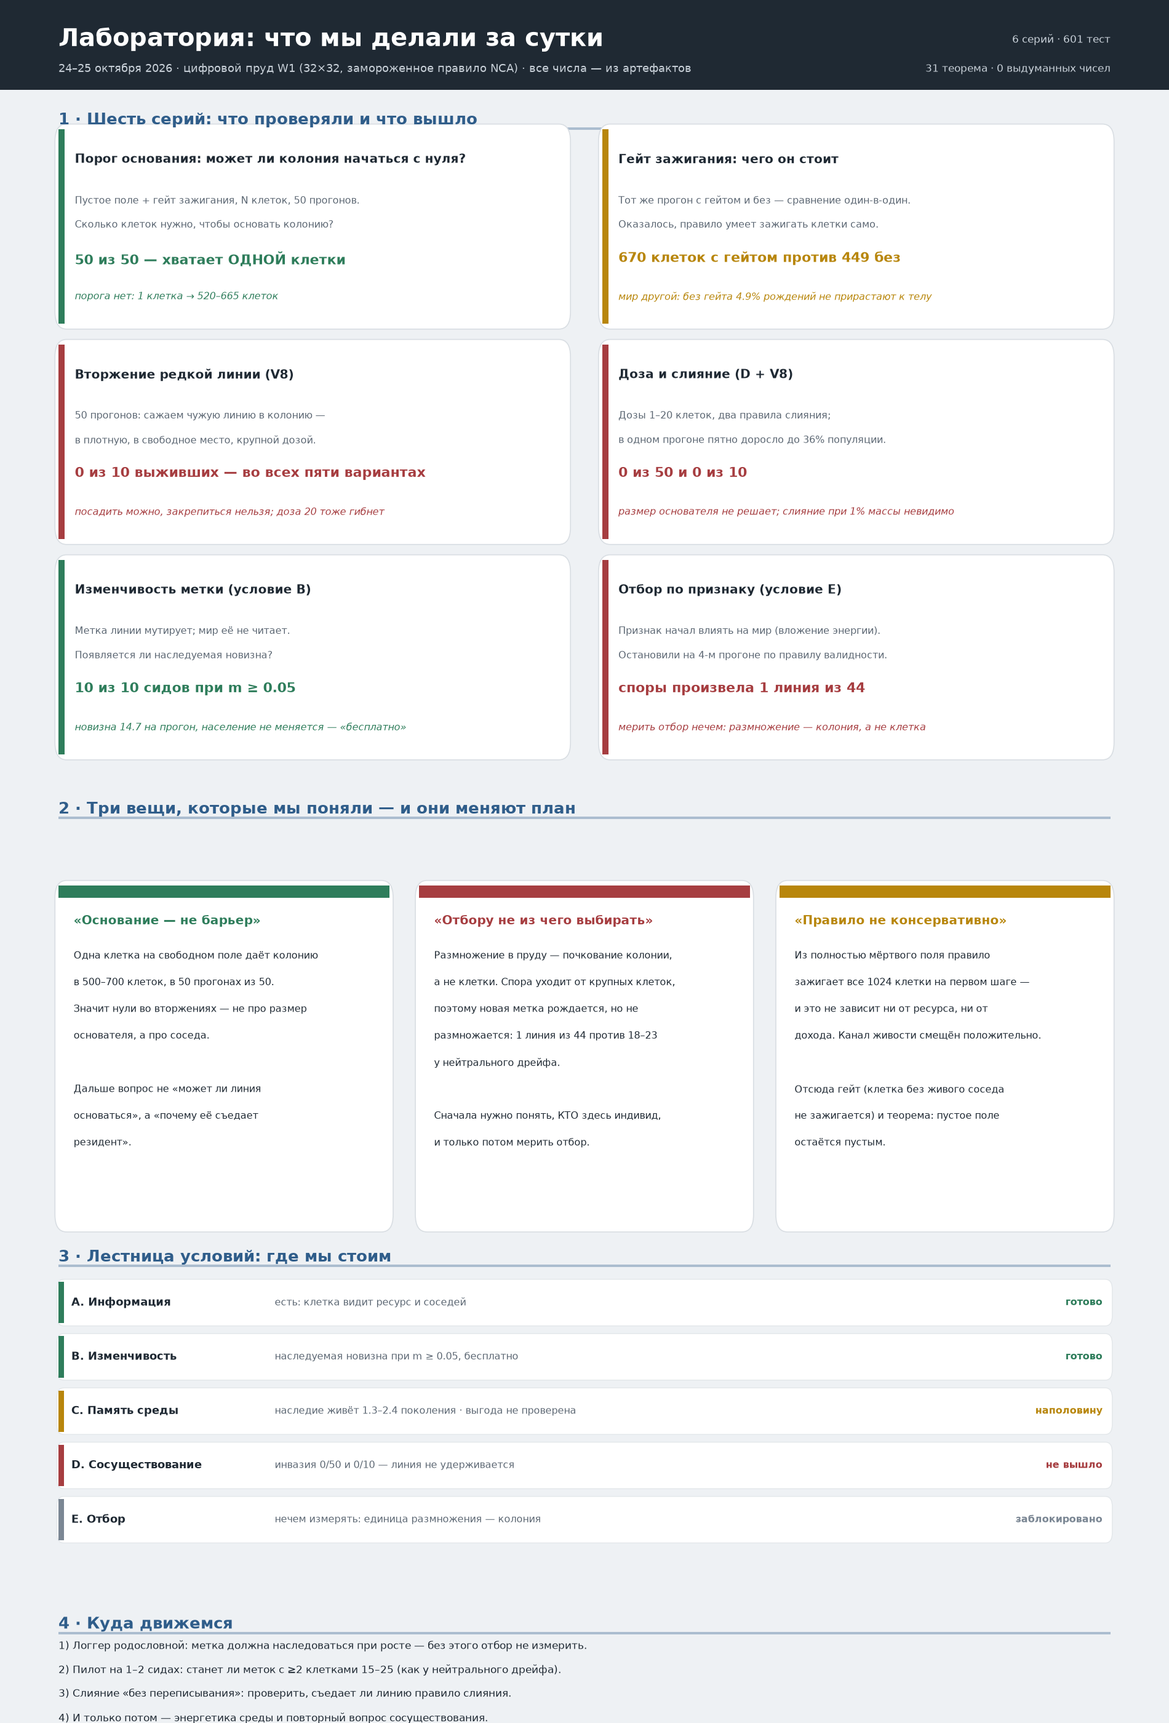
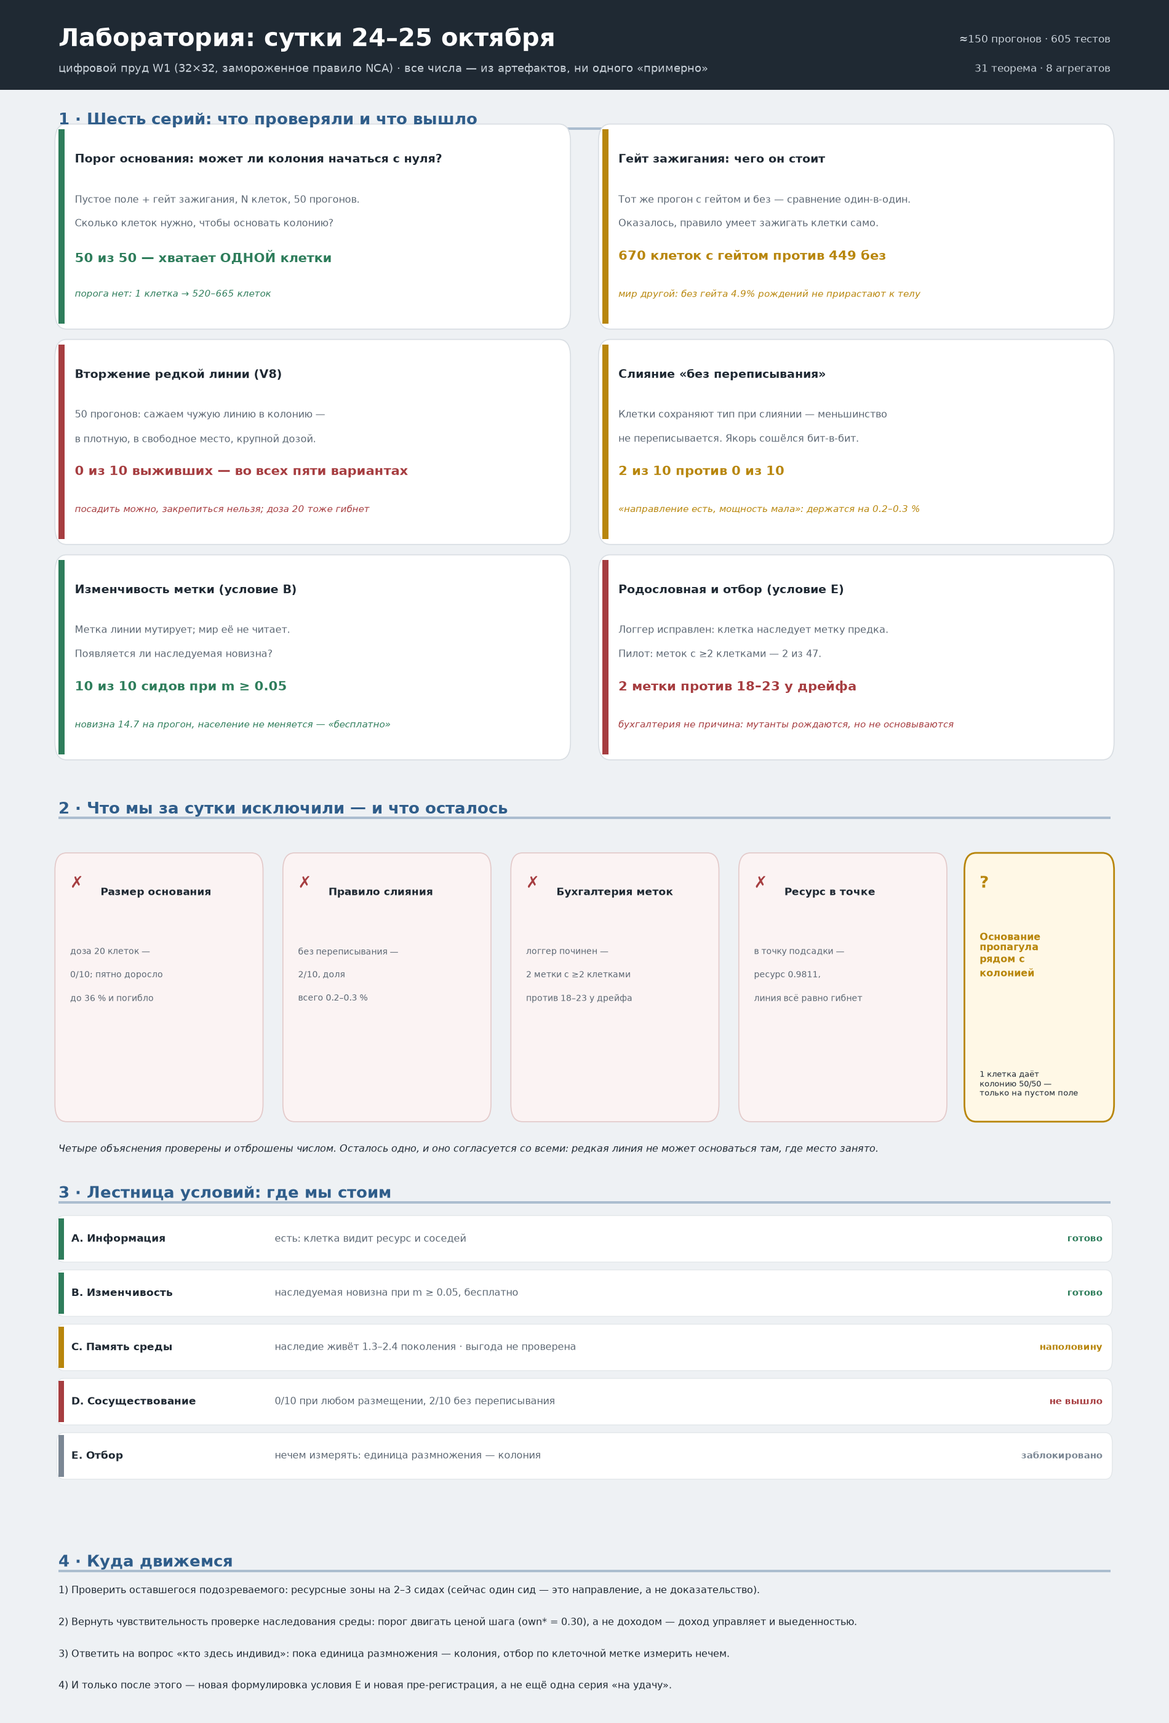
reports/figures: постер v2 — исключённые механизмы, merge=keep, родословная, лестница

diff --git a/scripts/make_day_poster.py b/scripts/make_day_poster.py
@@ -1,7 +1,6 @@
-"""Постер «сутки лаборатории» — визуализация хода исследования для владельца.
+"""Постер «сутки лаборатории» для владельца (версия 2, после ночных серий).
 
-Все числа взяты из артефактов линии E09_pond и рукописи (§10ab–§10ag, §4h, §5).
-Верстка: сетка с фиксированными координатами, без наложений.
+Все числа — из артефактов линии E09_pond и разделов 10ab–10al мира/рукописи.
 """
 from __future__ import annotations
 
@@ -24,20 +23,17 @@ BLUE = "#2f5d8a"
 FIG_W, FIG_H = 19.0, 28.0
 
 
-def section(fig, y_header, text):
-    fig.text(0.05, y_header, text, fontsize=19, weight="bold", color=BLUE,
-             va="top", ha="left")
+def section(fig, y, text):
+    fig.text(0.05, y, text, fontsize=19, weight="bold", color=BLUE, va="top", ha="left")
     fig.patches.append(
-        Rectangle((0.05, y_header - 0.0105), 0.90, 0.0014,
-                  transform=fig.transFigure, facecolor=BLUE, edgecolor="none",
-                  alpha=0.35, zorder=1)
+        Rectangle((0.05, y - 0.0105), 0.90, 0.0014, transform=fig.transFigure,
+                  facecolor=BLUE, edgecolor="none", alpha=0.35, zorder=1)
     )
 
 
 def card(fig, x, y, w, h, *, title, lines, big, verdict, colour):
     fig.patches.append(
-        FancyBboxPatch((x, y), w, h,
-                       boxstyle="round,pad=0.003,rounding_size=0.010",
+        FancyBboxPatch((x, y), w, h, boxstyle="round,pad=0.003,rounding_size=0.010",
                        transform=fig.transFigure, facecolor=WHITE,
                        edgecolor="#d9dee3", linewidth=1.2, zorder=2)
     )
@@ -46,37 +42,32 @@ def card(fig, x, y, w, h, *, title, lines, big, verdict, colour):
                   facecolor=colour, edgecolor="none", zorder=3)
     )
     ty = y + h - 0.014
-    fig.text(x + 0.014, ty, title, fontsize=14.5, weight="bold", color=INK,
-             va="top", ha="left")
-    ty -= 0.0245
+    fig.text(x + 0.014, ty, title, fontsize=14.0, weight="bold", color=INK, va="top", ha="left")
+    ty -= 0.024
     for ln in lines:
-        fig.text(x + 0.014, ty, ln, fontsize=11.6, color=MUTED, va="top", ha="left")
-        ty -= 0.0142
+        fig.text(x + 0.014, ty, ln, fontsize=11.4, color=MUTED, va="top", ha="left")
+        ty -= 0.014
     ty -= 0.004
-    fig.text(x + 0.014, ty, big, fontsize=15.5, weight="bold", color=colour,
-             va="top", ha="left")
-    ty -= 0.0235
-    fig.text(x + 0.014, ty, verdict, fontsize=11.2, color=colour, va="top",
-             ha="left", style="italic")
+    fig.text(x + 0.014, ty, big, fontsize=15.0, weight="bold", color=colour, va="top", ha="left")
+    ty -= 0.023
+    fig.text(x + 0.014, ty, verdict, fontsize=11.0, color=colour, va="top", ha="left", style="italic")
 
 
 fig = plt.figure(figsize=(FIG_W, FIG_H), dpi=100)
 fig.patch.set_facecolor(LIGHT)
 
 # ---------------------------------------------------------------- шапка
-fig.patches.append(
-    Rectangle((0, 0.948), 1, 0.052, transform=fig.transFigure,
-              facecolor=INK, edgecolor="none", zorder=1)
-)
-fig.text(0.05, 0.977, "Лаборатория: что мы делали за сутки", fontsize=29,
-         weight="bold", color=WHITE, va="center", ha="left")
+fig.patches.append(Rectangle((0, 0.948), 1, 0.052, transform=fig.transFigure,
+                             facecolor=INK, edgecolor="none", zorder=1))
+fig.text(0.05, 0.977, "Лаборатория: сутки 24–25 октября", fontsize=29, weight="bold",
+         color=WHITE, va="center", ha="left")
 fig.text(0.05, 0.960,
-         "24–25 октября 2026 · цифровой пруд W1 (32×32, замороженное правило NCA) · все числа — из артефактов",
+         "цифровой пруд W1 (32×32, замороженное правило NCA) · все числа — из артефактов, ни одного «примерно»",
          fontsize=13, color="#c9d1d9", va="center", ha="left")
-fig.text(0.95, 0.977, "6 серий · 601 тест", fontsize=12.5, color="#c9d1d9",
+fig.text(0.95, 0.977, "≈150 прогонов · 605 тестов", fontsize=12.5, color="#c9d1d9",
          va="center", ha="right")
-fig.text(0.95, 0.960, "31 теорема · 0 выдуманных чисел", fontsize=12.5,
-         color="#c9d1d9", va="center", ha="right")
+fig.text(0.95, 0.960, "31 теорема · 8 агрегатов", fontsize=12.5, color="#c9d1d9",
+         va="center", ha="right")
 
 # ---------------------------------------------------------------- 1. серии
 section(fig, 0.935, "1 · Шесть серий: что проверяли и что вышло")
@@ -110,12 +101,12 @@ card(fig, col1, rows[1], cw, ch,
      colour=RED)
 
 card(fig, col2, rows[1], cw, ch,
-     title="Доза и слияние (D + V8)",
-     lines=["Дозы 1–20 клеток, два правила слияния;",
-            "в одном прогоне пятно доросло до 36% популяции."],
-     big="0 из 50 и 0 из 10",
-     verdict="размер основателя не решает; слияние при 1% массы невидимо",
-     colour=RED)
+     title="Слияние «без переписывания»",
+     lines=["Клетки сохраняют тип при слиянии — меньшинство",
+            "не переписывается. Якорь сошёлся бит-в-бит."],
+     big="2 из 10 против 0 из 10",
+     verdict="«направление есть, мощность мала»: держатся на 0.2–0.3 %",
+     colour=AMBER)
 
 card(fig, col1, rows[2], cw, ch,
      title="Изменчивость метки (условие B)",
@@ -126,111 +117,97 @@ card(fig, col1, rows[2], cw, ch,
      colour=GREEN)
 
 card(fig, col2, rows[2], cw, ch,
-     title="Отбор по признаку (условие E)",
-     lines=["Признак начал влиять на мир (вложение энергии).",
-            "Остановили на 4-м прогоне по правилу валидности."],
-     big="споры произвела 1 линия из 44",
-     verdict="мерить отбор нечем: размножение — колония, а не клетка",
+     title="Родословная и отбор (условие E)",
+     lines=["Логгер исправлен: клетка наследует метку предка.",
+            "Пилот: меток с ≥2 клетками — 2 из 47."],
+     big="2 метки против 18–23 у дрейфа",
+     verdict="бухгалтерия не причина: мутанты рождаются, но не основываются",
      colour=RED)
 
-# ---------------------------------------------------------------- 2. выводы
-section(fig, 0.535, "2 · Три вещи, которые мы поняли — и они меняют план")
+# ---------------------------------------------------------------- 2. исключения
+section(fig, 0.535, "2 · Что мы за сутки исключили — и что осталось")
 
-box_w, box_h = 0.2833, 0.198
-box_y = 0.288
-boxes = [
-    ("«Основание — не барьер»",
-     ["Одна клетка на свободном поле даёт колонию",
-      "в 500–700 клеток, в 50 прогонах из 50.",
-      "Значит нули во вторжениях — не про размер",
-      "основателя, а про соседа.",
-      "",
-      "Дальше вопрос не «может ли линия",
-      "основаться», а «почему её съедает",
-      "резидент»."], GREEN),
-    ("«Отбору не из чего выбирать»",
-     ["Размножение в пруду — почкование колонии,",
-      "а не клетки. Спора уходит от крупных клеток,",
-      "поэтому новая метка рождается, но не",
-      "размножается: 1 линия из 44 против 18–23",
-      "у нейтрального дрейфа.",
-      "",
-      "Сначала нужно понять, КТО здесь индивид,",
-      "и только потом мерить отбор."], RED),
-    ("«Правило не консервативно»",
-     ["Из полностью мёртвого поля правило",
-      "зажигает все 1024 клетки на первом шаге —",
-      "и это не зависит ни от ресурса, ни от",
-      "дохода. Канал живости смещён положительно.",
-      "",
-      "Отсюда гейт (клетка без живого соседа",
-      "не зажигается) и теорема: пустое поле",
-      "остаётся пустым."], AMBER),
+ew, eh = 0.172, 0.150
+ey = 0.352
+items = [
+    ("Размер основания", ["доза 20 клеток —", "0/10; пятно доросло", "до 36 % и погибло"], RED),
+    ("Правило слияния", ["без переписывания —", "2/10, доля", "всего 0.2–0.3 %"], RED),
+    ("Бухгалтерия меток", ["логгер починен —", "2 метки с ≥2 клетками", "против 18–23 у дрейфа"], RED),
+    ("Ресурс в точке", ["в точку подсадки —", "ресурс 0.9811,", "линия всё равно гибнет"], RED),
 ]
-for x, (head, body, colour) in zip([0.05, 0.3583, 0.6667], boxes):
+exs = [0.05, 0.245, 0.440, 0.635]
+for x, (head, body, colour) in zip(exs, items):
     fig.patches.append(
-        FancyBboxPatch((x, box_y), box_w, box_h,
-                       boxstyle="round,pad=0.003,rounding_size=0.010",
-                       transform=fig.transFigure, facecolor=WHITE,
-                       edgecolor="#d9dee3", linewidth=1.2, zorder=2)
+        FancyBboxPatch((x, ey), ew, eh, boxstyle="round,pad=0.003,rounding_size=0.010",
+                       transform=fig.transFigure, facecolor="#fbf3f3",
+                       edgecolor="#e3c9c9", linewidth=1.2, zorder=2)
     )
-    fig.patches.append(
-        Rectangle((x, box_y + box_h - 0.007), box_w, 0.007,
-                  transform=fig.transFigure, facecolor=colour,
-                  edgecolor="none", zorder=3)
-    )
-    fig.text(x + 0.013, box_y + box_h - 0.017, head, fontsize=14.5,
-             weight="bold", color=colour, va="top", ha="left")
-    ty = box_y + box_h - 0.038
+    fig.text(x + 0.010, ey + eh - 0.010, "✗", fontsize=19, color=colour, va="top",
+             ha="left", weight="bold")
+    fig.text(x + 0.036, ey + eh - 0.017, head, fontsize=12.0, weight="bold",
+             color=INK, va="top", ha="left")
+    ty = ey + eh - 0.052
     for ln in body:
-        fig.text(x + 0.013, ty, ln, fontsize=11.3, color=INK, va="top", ha="left")
-        ty -= 0.0155
+        fig.text(x + 0.010, ty, ln, fontsize=9.8, color=MUTED, va="top", ha="left")
+        ty -= 0.0135
+
+sx, sw = 0.828, 0.122
+fig.patches.append(
+    FancyBboxPatch((sx, ey), sw, eh, boxstyle="round,pad=0.003,rounding_size=0.010",
+                   transform=fig.transFigure, facecolor="#fff8e6",
+                   edgecolor=AMBER, linewidth=2.0, zorder=2)
+)
+fig.text(sx + 0.010, ey + eh - 0.010, "?", fontsize=19, color=AMBER, va="top",
+         ha="left", weight="bold")
+fig.text(sx + 0.010, ey + eh - 0.042, "Основание\nпропагула\nрядом с\nколонией",
+         fontsize=11.2, weight="bold", color=AMBER, va="top", ha="left", linespacing=1.25)
+fig.text(sx + 0.010, ey + 0.010, "1 клетка даёт\nколонию 50/50 —\nтолько на пустом поле",
+         fontsize=9.0, color=INK, va="bottom", ha="left", linespacing=1.3)
+
+fig.text(0.05, ey - 0.016,
+         "Четыре объяснения проверены и отброшены числом. Осталось одно, и оно согласуется со всеми: "
+         "редкая линия не может основаться там, где место занято.",
+         fontsize=11.6, color=INK, va="top", ha="left", style="italic")
 
 # ---------------------------------------------------------------- 3. лестница
-section(fig, 0.275, "3 · Лестница условий: где мы стоим")
+section(fig, 0.312, "3 · Лестница условий: где мы стоим")
 
 ladder = [
     ("A. Информация", "есть: клетка видит ресурс и соседей", GREEN, "готово"),
     ("B. Изменчивость", "наследуемая новизна при m ≥ 0.05, бесплатно", GREEN, "готово"),
     ("C. Память среды", "наследие живёт 1.3–2.4 поколения · выгода не проверена", AMBER, "наполовину"),
-    ("D. Сосуществование", "инвазия 0/50 и 0/10 — линия не удерживается", RED, "не вышло"),
+    ("D. Сосуществование", "0/10 при любом размещении, 2/10 без переписывания", RED, "не вышло"),
     ("E. Отбор", "нечем измерять: единица размножения — колония", GRAY, "заблокировано"),
 ]
-ly = 0.232
+ly = 0.269
 for name, status, colour, tag in ladder:
     fig.patches.append(
-        FancyBboxPatch((0.05, ly), 0.90, 0.024,
-                       boxstyle="round,pad=0.0015,rounding_size=0.006",
-                       transform=fig.transFigure, facecolor=WHITE,
-                       edgecolor="#e3e7ea", linewidth=1.0, zorder=2)
+        FancyBboxPatch((0.05, ly), 0.90, 0.024, boxstyle="round,pad=0.0015,rounding_size=0.006",
+                       transform=fig.transFigure, facecolor=WHITE, edgecolor="#e3e7ea",
+                       linewidth=1.0, zorder=2)
     )
     fig.patches.append(
         Rectangle((0.05, ly), 0.0045, 0.024, transform=fig.transFigure,
                   facecolor=colour, edgecolor="none", zorder=3)
     )
-    fig.text(0.061, ly + 0.012, name, fontsize=12.8, weight="bold", color=INK,
-             va="center", ha="left")
-    fig.text(0.235, ly + 0.012, status, fontsize=11.6, color=MUTED,
-             va="center", ha="left")
-    fig.text(0.943, ly + 0.012, tag, fontsize=11.2, weight="bold", color=colour,
-             va="center", ha="right")
+    fig.text(0.061, ly + 0.012, name, fontsize=12.6, weight="bold", color=INK, va="center", ha="left")
+    fig.text(0.235, ly + 0.012, status, fontsize=11.4, color=MUTED, va="center", ha="left")
+    fig.text(0.943, ly + 0.012, tag, fontsize=11.0, weight="bold", color=colour, va="center", ha="right")
     ly -= 0.0315
 
 # ---------------------------------------------------------------- 4. дальше
-section(fig, 0.062, "4 · Куда движемся")
-fig.text(0.05, 0.048,
-         "1) Логгер родословной: метка должна наследоваться при росте — без этого отбор не измерить.",
-         fontsize=12.2, color=INK, va="top", ha="left")
-fig.text(0.05, 0.034,
-         "2) Пилот на 1–2 сидах: станет ли меток с ≥2 клетками 15–25 (как у нейтрального дрейфа).",
-         fontsize=12.2, color=INK, va="top", ha="left")
-fig.text(0.05, 0.020,
-         "3) Слияние «без переписывания»: проверить, съедает ли линию правило слияния.",
-         fontsize=12.2, color=INK, va="top", ha="left")
-fig.text(0.05, 0.006,
-         "4) И только потом — энергетика среды и повторный вопрос сосуществования.",
-         fontsize=12.2, color=INK, va="top", ha="left")
+section(fig, 0.098, "4 · Куда движемся")
+steps = [
+    "1) Проверить оставшегося подозреваемого: ресурсные зоны на 2–3 сидах (сейчас один сид — это направление, а не доказательство).",
+    "2) Вернуть чувствительность проверке наследования среды: порог двигать ценой шага (own* = 0.30), а не доходом — доход управляет и выеденностью.",
+    "3) Ответить на вопрос «кто здесь индивид»: пока единица размножения — колония, отбор по клеточной метке измерить нечем.",
+    "4) И только после этого — новая формулировка условия E и новая пре-регистрация, а не ещё одна серия «на удачу».",
+]
+ty = 0.080
+for s in steps:
+    fig.text(0.05, ty, s, fontsize=11.6, color=INK, va="top", ha="left")
+    ty -= 0.0185
 
-out = r"reports/figures/day-2026-10-25.png"
+out = "reports/figures/day-2026-10-25.png"
 fig.savefig(out, facecolor=fig.get_facecolor(), dpi=100)
 print("saved:", out)
